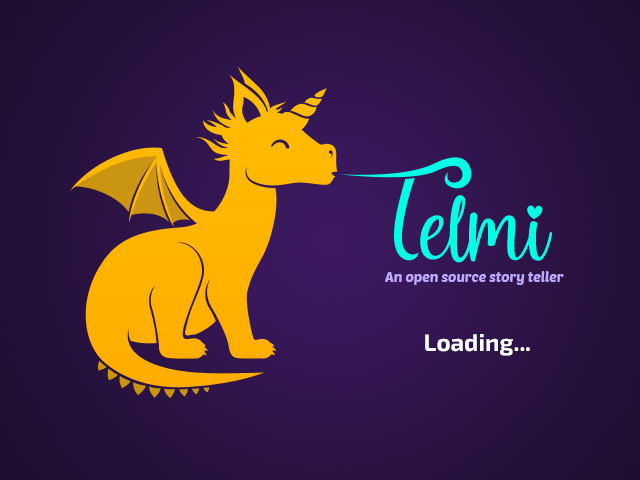
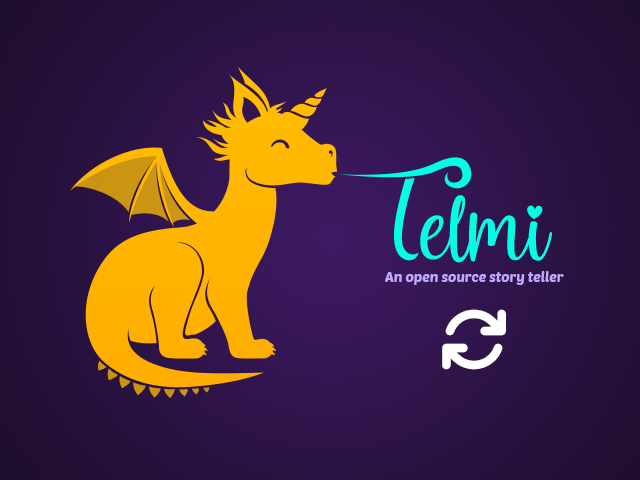
remove text from UI

Changed region(s): [[0.6562, 0.625, 0.8438, 0.7812]]

diff --git a/src/bootScreen/bootScreen.c b/src/bootScreen/bootScreen.c
@@ -43,8 +43,6 @@ int main(int argc, char *argv[])
     } else if (argc > 1 && strcmp(argv[1], "lowBat") == 0) {
         background = loadImage("lowBat");
         show_version = false;
-    } else if (argc > 1 && strcmp(argv[1], "convertingFiles") == 0) {
-        background = loadImage("convertingFiles");
     } else {
         background = loadImage("bootScreen");
     }
